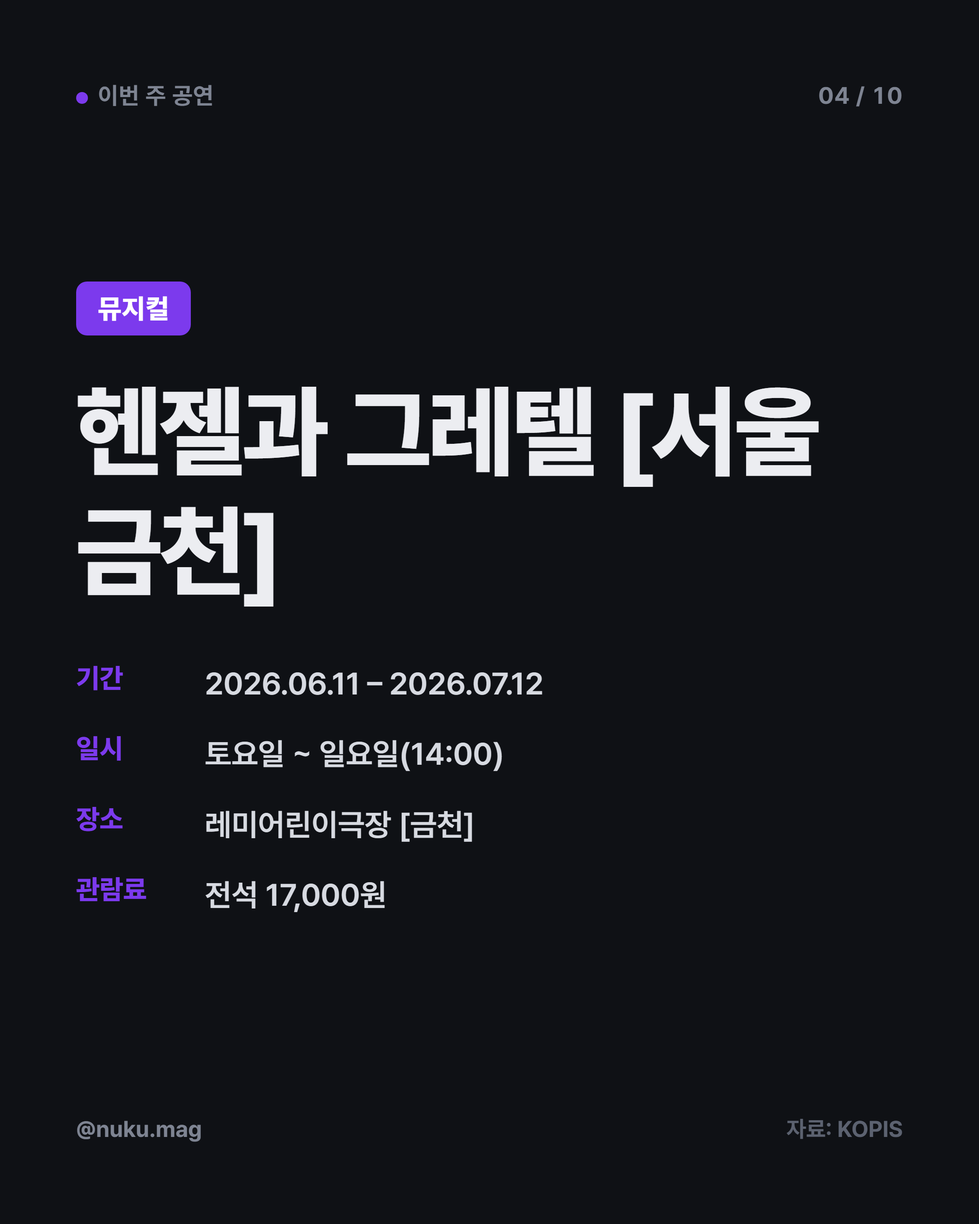
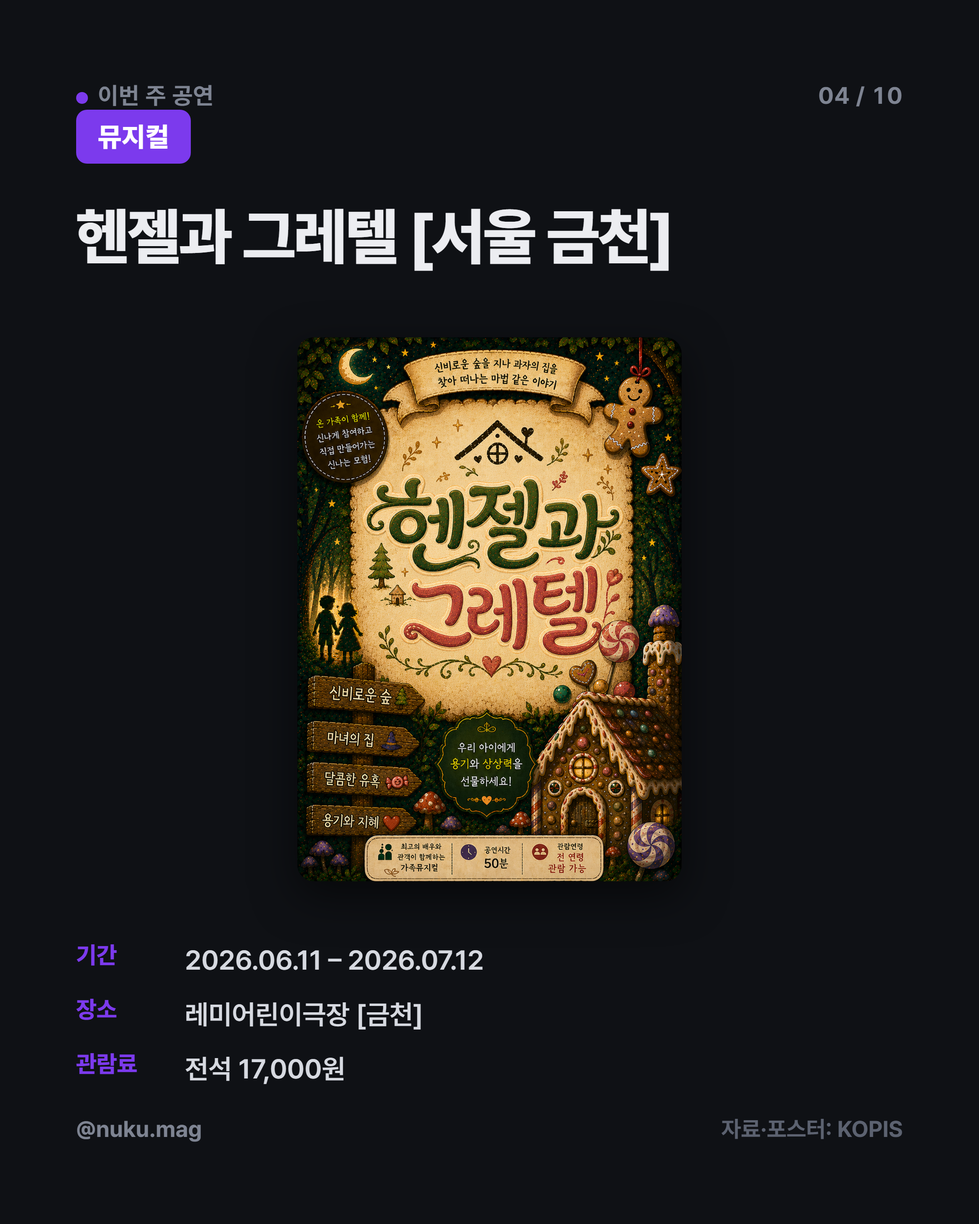
공연소식 6/19~6/25 주간 카드 갱신 (포스터 버전)

diff --git a/17_공연소식/card02.html b/17_공연소식/card02.html
@@ -21,6 +21,13 @@ body{font-family:'Pretendard','Noto Sans KR',sans-serif;background:#0F1115;color
 .bot{margin-top:auto;display:flex;justify-content:space-between;align-items:center;
   font-size:25px;font-weight:700;color:#7E8492;padding-top:30px;}
 .bot .src{color:#5C6270;}
+/* poster layout */
+.posterwrap{flex:1;display:flex;align-items:center;justify-content:center;margin:28px 0 24px;min-height:0;}
+.poster{max-width:100%;max-height:600px;border-radius:18px;object-fit:contain;
+  box-shadow:0 16px 48px rgba(0,0,0,.55);}
+.rows.compact{margin-top:0;gap:18px;}
+.rows.compact .k{font-size:26px;width:96px;}
+.rows.compact .v{font-size:30px;}
 /* cover */
 .cov-k{display:inline-block;align-self:flex-start;font-size:30px;font-weight:800;color:#4AA0FF;
   background:rgba(74,160,255,.12);border-radius:999px;padding:12px 26px;margin-bottom:36px;}
@@ -35,7 +42,7 @@ body{font-family:'Pretendard','Noto Sans KR',sans-serif;background:#0F1115;color
 .cl-handle{font-size:46px;font-weight:800;color:#ECEDF1;margin-top:60px;}
 .cl-handle .dot{width:18px;height:18px;border-radius:50%;background:#0273FF;display:inline-block;margin-right:14px;}
 em{font-style:normal;color:#4AA0FF;}
-</style></head><body><div class="frame" style="--ac:#0273FF"><div class="top"><span><span class="dot"></span>이번 주 공연</span><span class="num">02 / 10</span></div><div class="body"><span class="chip">연극</span><div class="title fit" data-fith="380" data-fitmax="110">주인공 [서울]</div><div class="rows"><div class="row"><div class="k">기간</div><div class="v">2026.06.10 – 2026.06.14</div></div><div class="row"><div class="k">일시</div><div class="v">수요일 ~ 금요일(19:30), 토요일(15:00,19:30), 일요일(14:00)</div></div><div class="row"><div class="k">장소</div><div class="v">다케이씨어터 (구. 창조소극장)</div></div><div class="row"><div class="k">관람료</div><div class="v">전석 30,000원</div></div><div class="row"><div class="k">출연</div><div class="v">남윤성, 이재홍, 김미소, 김수연, 강민경, 손세빈, 김성영 등</div></div></div></div><div class="bot"><span><span class="dot"></span>@nuku.mag</span><span class="src">자료: KOPIS</span></div></div><script>
+</style></head><body><div class="frame" style="--ac:#0273FF"><div class="top"><span><span class="dot"></span>이번 주 공연</span><span class="num">02 / 10</span></div><div class="body"><span class="chip">연극</span><div class="title fit" data-fith="150" data-fitmax="68">연애버킷리스트</div><div class="posterwrap"><img class="poster" src="http://www.kopis.or.kr/upload/pfmPoster/PF_PF293852_260616_140115.gif" alt=""></div><div class="rows compact"><div class="row"><div class="k">기간</div><div class="v">2026.06.18 – 2026.08.31</div></div><div class="row"><div class="k">장소</div><div class="v">봄날아트홀 (구. 아리랑소극장)</div></div><div class="row"><div class="k">관람료</div><div class="v">전석 30,000원</div></div></div></div><div class="bot"><span><span class="dot"></span>@nuku.mag</span><span class="src">자료·포스터: KOPIS</span></div></div><script>
 (function(){function fit(el){var maxH=parseFloat(el.dataset.fith)||430,maxF=parseFloat(el.dataset.fitmax)||118,
 minF=44,lo=minF,hi=maxF,best=minF;for(var i=0;i<26;i++){var mid=(lo+hi)/2;el.style.fontSize=mid+'px';
 if(el.scrollHeight<=maxH+0.5&&el.scrollWidth<=el.clientWidth+1){best=mid;lo=mid;}else{hi=mid;}}

diff --git a/17_공연소식/card07.html b/17_공연소식/card07.html
@@ -21,6 +21,13 @@ body{font-family:'Pretendard','Noto Sans KR',sans-serif;background:#0F1115;color
 .bot{margin-top:auto;display:flex;justify-content:space-between;align-items:center;
   font-size:25px;font-weight:700;color:#7E8492;padding-top:30px;}
 .bot .src{color:#5C6270;}
+/* poster layout */
+.posterwrap{flex:1;display:flex;align-items:center;justify-content:center;margin:28px 0 24px;min-height:0;}
+.poster{max-width:100%;max-height:600px;border-radius:18px;object-fit:contain;
+  box-shadow:0 16px 48px rgba(0,0,0,.55);}
+.rows.compact{margin-top:0;gap:18px;}
+.rows.compact .k{font-size:26px;width:96px;}
+.rows.compact .v{font-size:30px;}
 /* cover */
 .cov-k{display:inline-block;align-self:flex-start;font-size:30px;font-weight:800;color:#4AA0FF;
   background:rgba(74,160,255,.12);border-radius:999px;padding:12px 26px;margin-bottom:36px;}
@@ -35,7 +42,7 @@ body{font-family:'Pretendard','Noto Sans KR',sans-serif;background:#0F1115;color
 .cl-handle{font-size:46px;font-weight:800;color:#ECEDF1;margin-top:60px;}
 .cl-handle .dot{width:18px;height:18px;border-radius:50%;background:#0273FF;display:inline-block;margin-right:14px;}
 em{font-style:normal;color:#4AA0FF;}
-</style></head><body><div class="frame" style="--ac:#0E7490"><div class="top"><span><span class="dot"></span>이번 주 공연</span><span class="num">07 / 10</span></div><div class="body"><span class="chip">서양음악(클래식)</span><div class="title fit" data-fith="380" data-fitmax="110">스며드는 노래, 이어지는 울림</div><div class="rows"><div class="row"><div class="k">기간</div><div class="v">2026.06.12</div></div><div class="row"><div class="k">일시</div><div class="v">금요일(19:30)</div></div><div class="row"><div class="k">장소</div><div class="v">푸르지오아트홀</div></div><div class="row"><div class="k">관람료</div><div class="v">전석 30,000원</div></div><div class="row"><div class="k">출연</div><div class="v">이일령, 이은영, 김주형, 유주영, 정승환, 김대위, 이상화 등</div></div></div></div><div class="bot"><span><span class="dot"></span>@nuku.mag</span><span class="src">자료: KOPIS</span></div></div><script>
+</style></head><body><div class="frame" style="--ac:#0E7490"><div class="top"><span><span class="dot"></span>이번 주 공연</span><span class="num">07 / 10</span></div><div class="body"><span class="chip">서양음악(클래식)</span><div class="title fit" data-fith="150" data-fitmax="68">다시보는 공연봄날, 음악으로 빚은 동화콘서트, 집으로</div><div class="posterwrap"><img class="poster" src="http://www.kopis.or.kr/upload/pfmPoster/PF_PF293397_260611_112056.png" alt=""></div><div class="rows compact"><div class="row"><div class="k">기간</div><div class="v">2026.06.17 – 2026.06.21</div></div><div class="row"><div class="k">장소</div><div class="v">세종문화회관</div></div><div class="row"><div class="k">관람료</div><div class="v">전석무료</div></div></div></div><div class="bot"><span><span class="dot"></span>@nuku.mag</span><span class="src">자료·포스터: KOPIS</span></div></div><script>
 (function(){function fit(el){var maxH=parseFloat(el.dataset.fith)||430,maxF=parseFloat(el.dataset.fitmax)||118,
 minF=44,lo=minF,hi=maxF,best=minF;for(var i=0;i<26;i++){var mid=(lo+hi)/2;el.style.fontSize=mid+'px';
 if(el.scrollHeight<=maxH+0.5&&el.scrollWidth<=el.clientWidth+1){best=mid;lo=mid;}else{hi=mid;}}

diff --git a/17_공연소식/card06.html b/17_공연소식/card06.html
@@ -21,6 +21,13 @@ body{font-family:'Pretendard','Noto Sans KR',sans-serif;background:#0F1115;color
 .bot{margin-top:auto;display:flex;justify-content:space-between;align-items:center;
   font-size:25px;font-weight:700;color:#7E8492;padding-top:30px;}
 .bot .src{color:#5C6270;}
+/* poster layout */
+.posterwrap{flex:1;display:flex;align-items:center;justify-content:center;margin:28px 0 24px;min-height:0;}
+.poster{max-width:100%;max-height:600px;border-radius:18px;object-fit:contain;
+  box-shadow:0 16px 48px rgba(0,0,0,.55);}
+.rows.compact{margin-top:0;gap:18px;}
+.rows.compact .k{font-size:26px;width:96px;}
+.rows.compact .v{font-size:30px;}
 /* cover */
 .cov-k{display:inline-block;align-self:flex-start;font-size:30px;font-weight:800;color:#4AA0FF;
   background:rgba(74,160,255,.12);border-radius:999px;padding:12px 26px;margin-bottom:36px;}
@@ -35,7 +42,7 @@ body{font-family:'Pretendard','Noto Sans KR',sans-serif;background:#0F1115;color
 .cl-handle{font-size:46px;font-weight:800;color:#ECEDF1;margin-top:60px;}
 .cl-handle .dot{width:18px;height:18px;border-radius:50%;background:#0273FF;display:inline-block;margin-right:14px;}
 em{font-style:normal;color:#4AA0FF;}
-</style></head><body><div class="frame" style="--ac:#0E7490"><div class="top"><span><span class="dot"></span>이번 주 공연</span><span class="num">06 / 10</span></div><div class="body"><span class="chip">서양음악(클래식)</span><div class="title fit" data-fith="380" data-fitmax="110">코리아 플루트 솔로이스츠</div><div class="rows"><div class="row"><div class="k">기간</div><div class="v">2026.06.12</div></div><div class="row"><div class="k">일시</div><div class="v">금요일(19:30)</div></div><div class="row"><div class="k">장소</div><div class="v">반포심산아트홀</div></div><div class="row"><div class="k">관람료</div><div class="v">전석 20,000원</div></div><div class="row"><div class="k">출연</div><div class="v">김석중, 조훈희, 조한, 장현진, 박소영, 한지수, 권예나 등</div></div></div></div><div class="bot"><span><span class="dot"></span>@nuku.mag</span><span class="src">자료: KOPIS</span></div></div><script>
+</style></head><body><div class="frame" style="--ac:#0E7490"><div class="top"><span><span class="dot"></span>이번 주 공연</span><span class="num">06 / 10</span></div><div class="body"><span class="chip">서양음악(클래식)</span><div class="title fit" data-fith="150" data-fitmax="68">홍진호의 Way Back Home 첼로 리사이틀</div><div class="posterwrap"><img class="poster" src="http://www.kopis.or.kr/upload/pfmPoster/PF_PF293447_260611_135833.png" alt=""></div><div class="rows compact"><div class="row"><div class="k">기간</div><div class="v">2026.06.17 – 2026.08.12</div></div><div class="row"><div class="k">장소</div><div class="v">평창동일번지 아트하우스</div></div><div class="row"><div class="k">관람료</div><div class="v">전석 100,000원</div></div></div></div><div class="bot"><span><span class="dot"></span>@nuku.mag</span><span class="src">자료·포스터: KOPIS</span></div></div><script>
 (function(){function fit(el){var maxH=parseFloat(el.dataset.fith)||430,maxF=parseFloat(el.dataset.fitmax)||118,
 minF=44,lo=minF,hi=maxF,best=minF;for(var i=0;i<26;i++){var mid=(lo+hi)/2;el.style.fontSize=mid+'px';
 if(el.scrollHeight<=maxH+0.5&&el.scrollWidth<=el.clientWidth+1){best=mid;lo=mid;}else{hi=mid;}}

diff --git a/17_공연소식/card03.html b/17_공연소식/card03.html
@@ -21,6 +21,13 @@ body{font-family:'Pretendard','Noto Sans KR',sans-serif;background:#0F1115;color
 .bot{margin-top:auto;display:flex;justify-content:space-between;align-items:center;
   font-size:25px;font-weight:700;color:#7E8492;padding-top:30px;}
 .bot .src{color:#5C6270;}
+/* poster layout */
+.posterwrap{flex:1;display:flex;align-items:center;justify-content:center;margin:28px 0 24px;min-height:0;}
+.poster{max-width:100%;max-height:600px;border-radius:18px;object-fit:contain;
+  box-shadow:0 16px 48px rgba(0,0,0,.55);}
+.rows.compact{margin-top:0;gap:18px;}
+.rows.compact .k{font-size:26px;width:96px;}
+.rows.compact .v{font-size:30px;}
 /* cover */
 .cov-k{display:inline-block;align-self:flex-start;font-size:30px;font-weight:800;color:#4AA0FF;
   background:rgba(74,160,255,.12);border-radius:999px;padding:12px 26px;margin-bottom:36px;}
@@ -35,7 +42,7 @@ body{font-family:'Pretendard','Noto Sans KR',sans-serif;background:#0F1115;color
 .cl-handle{font-size:46px;font-weight:800;color:#ECEDF1;margin-top:60px;}
 .cl-handle .dot{width:18px;height:18px;border-radius:50%;background:#0273FF;display:inline-block;margin-right:14px;}
 em{font-style:normal;color:#4AA0FF;}
-</style></head><body><div class="frame" style="--ac:#0273FF"><div class="top"><span><span class="dot"></span>이번 주 공연</span><span class="num">03 / 10</span></div><div class="body"><span class="chip">연극</span><div class="title fit" data-fith="380" data-fitmax="110">제34회 젊은 연극제, 금전겁</div><div class="rows"><div class="row"><div class="k">기간</div><div class="v">2026.06.12 – 2026.06.13</div></div><div class="row"><div class="k">일시</div><div class="v">금요일(19:00), 토요일(15:00)</div></div><div class="row"><div class="k">장소</div><div class="v">보라 아트홀(구. 지구인아트홀)</div></div><div class="row"><div class="k">관람료</div><div class="v">전석무료</div></div><div class="row"><div class="k">출연</div><div class="v">서수문, 유수이, 오택명, 당진뢰, 여결, 방룡비, 두비</div></div></div></div><div class="bot"><span><span class="dot"></span>@nuku.mag</span><span class="src">자료: KOPIS</span></div></div><script>
+</style></head><body><div class="frame" style="--ac:#0273FF"><div class="top"><span><span class="dot"></span>이번 주 공연</span><span class="num">03 / 10</span></div><div class="body"><span class="chip">연극</span><div class="title fit" data-fith="150" data-fitmax="68">형, 이거 나만 불편해?</div><div class="posterwrap"><img class="poster" src="http://www.kopis.or.kr/upload/pfmPoster/PF_PF293367_260611_102937.gif" alt=""></div><div class="rows compact"><div class="row"><div class="k">기간</div><div class="v">2026.06.17 – 2026.06.21</div></div><div class="row"><div class="k">장소</div><div class="v">소극장 혜화당 (구. 까망소극장)</div></div><div class="row"><div class="k">관람료</div><div class="v">전석 30,000원</div></div></div></div><div class="bot"><span><span class="dot"></span>@nuku.mag</span><span class="src">자료·포스터: KOPIS</span></div></div><script>
 (function(){function fit(el){var maxH=parseFloat(el.dataset.fith)||430,maxF=parseFloat(el.dataset.fitmax)||118,
 minF=44,lo=minF,hi=maxF,best=minF;for(var i=0;i<26;i++){var mid=(lo+hi)/2;el.style.fontSize=mid+'px';
 if(el.scrollHeight<=maxH+0.5&&el.scrollWidth<=el.clientWidth+1){best=mid;lo=mid;}else{hi=mid;}}

diff --git a/17_공연소식/card05.html b/17_공연소식/card05.html
@@ -21,6 +21,13 @@ body{font-family:'Pretendard','Noto Sans KR',sans-serif;background:#0F1115;color
 .bot{margin-top:auto;display:flex;justify-content:space-between;align-items:center;
   font-size:25px;font-weight:700;color:#7E8492;padding-top:30px;}
 .bot .src{color:#5C6270;}
+/* poster layout */
+.posterwrap{flex:1;display:flex;align-items:center;justify-content:center;margin:28px 0 24px;min-height:0;}
+.poster{max-width:100%;max-height:600px;border-radius:18px;object-fit:contain;
+  box-shadow:0 16px 48px rgba(0,0,0,.55);}
+.rows.compact{margin-top:0;gap:18px;}
+.rows.compact .k{font-size:26px;width:96px;}
+.rows.compact .v{font-size:30px;}
 /* cover */
 .cov-k{display:inline-block;align-self:flex-start;font-size:30px;font-weight:800;color:#4AA0FF;
   background:rgba(74,160,255,.12);border-radius:999px;padding:12px 26px;margin-bottom:36px;}
@@ -35,7 +42,7 @@ body{font-family:'Pretendard','Noto Sans KR',sans-serif;background:#0F1115;color
 .cl-handle{font-size:46px;font-weight:800;color:#ECEDF1;margin-top:60px;}
 .cl-handle .dot{width:18px;height:18px;border-radius:50%;background:#0273FF;display:inline-block;margin-right:14px;}
 em{font-style:normal;color:#4AA0FF;}
-</style></head><body><div class="frame" style="--ac:#7C3AED"><div class="top"><span><span class="dot"></span>이번 주 공연</span><span class="num">05 / 10</span></div><div class="body"><span class="chip">뮤지컬</span><div class="title fit" data-fith="380" data-fitmax="110">SHELTER 쉘터</div><div class="rows"><div class="row"><div class="k">기간</div><div class="v">2026.06.12 – 2026.06.14</div></div><div class="row"><div class="k">일시</div><div class="v">금요일(19:30), 토요일(14:00,18:00), 일요일(15:00)</div></div><div class="row"><div class="k">장소</div><div class="v">한국콘텐츠진흥원 CKL스테이지</div></div><div class="row"><div class="k">관람료</div><div class="v">전석 35,000원</div></div><div class="row"><div class="k">출연</div><div class="v">김봄나리, 박동균, 박연지, 백두진, 송희, 이승연, 최홍혁 등</div></div></div></div><div class="bot"><span><span class="dot"></span>@nuku.mag</span><span class="src">자료: KOPIS</span></div></div><script>
+</style></head><body><div class="frame" style="--ac:#7C3AED"><div class="top"><span><span class="dot"></span>이번 주 공연</span><span class="num">05 / 10</span></div><div class="body"><span class="chip">뮤지컬</span><div class="title fit" data-fith="150" data-fitmax="68">독도 아리랑 [대학로]</div><div class="posterwrap"><img class="poster" src="http://www.kopis.or.kr/upload/pfmPoster/PF_PF291560_260518_100936.jpg" alt=""></div><div class="rows compact"><div class="row"><div class="k">기간</div><div class="v">2026.06.03 – 2026.06.28</div></div><div class="row"><div class="k">장소</div><div class="v">경복궁아트홀</div></div><div class="row"><div class="k">관람료</div><div class="v">전석 30,000원</div></div></div></div><div class="bot"><span><span class="dot"></span>@nuku.mag</span><span class="src">자료·포스터: KOPIS</span></div></div><script>
 (function(){function fit(el){var maxH=parseFloat(el.dataset.fith)||430,maxF=parseFloat(el.dataset.fitmax)||118,
 minF=44,lo=minF,hi=maxF,best=minF;for(var i=0;i<26;i++){var mid=(lo+hi)/2;el.style.fontSize=mid+'px';
 if(el.scrollHeight<=maxH+0.5&&el.scrollWidth<=el.clientWidth+1){best=mid;lo=mid;}else{hi=mid;}}

diff --git a/17_공연소식/card09.html b/17_공연소식/card09.html
@@ -21,6 +21,13 @@ body{font-family:'Pretendard','Noto Sans KR',sans-serif;background:#0F1115;color
 .bot{margin-top:auto;display:flex;justify-content:space-between;align-items:center;
   font-size:25px;font-weight:700;color:#7E8492;padding-top:30px;}
 .bot .src{color:#5C6270;}
+/* poster layout */
+.posterwrap{flex:1;display:flex;align-items:center;justify-content:center;margin:28px 0 24px;min-height:0;}
+.poster{max-width:100%;max-height:600px;border-radius:18px;object-fit:contain;
+  box-shadow:0 16px 48px rgba(0,0,0,.55);}
+.rows.compact{margin-top:0;gap:18px;}
+.rows.compact .k{font-size:26px;width:96px;}
+.rows.compact .v{font-size:30px;}
 /* cover */
 .cov-k{display:inline-block;align-self:flex-start;font-size:30px;font-weight:800;color:#4AA0FF;
   background:rgba(74,160,255,.12);border-radius:999px;padding:12px 26px;margin-bottom:36px;}
@@ -35,7 +42,7 @@ body{font-family:'Pretendard','Noto Sans KR',sans-serif;background:#0F1115;color
 .cl-handle{font-size:46px;font-weight:800;color:#ECEDF1;margin-top:60px;}
 .cl-handle .dot{width:18px;height:18px;border-radius:50%;background:#0273FF;display:inline-block;margin-right:14px;}
 em{font-style:normal;color:#4AA0FF;}
-</style></head><body><div class="frame" style="--ac:#E11D48"><div class="top"><span><span class="dot"></span>이번 주 공연</span><span class="num">09 / 10</span></div><div class="body"><span class="chip">대중음악</span><div class="title fit" data-fith="380" data-fitmax="110">수상한스테이지 (06.12)</div><div class="rows"><div class="row"><div class="k">기간</div><div class="v">2026.06.12</div></div><div class="row"><div class="k">일시</div><div class="v">금요일(20:00)</div></div><div class="row"><div class="k">장소</div><div class="v">수상한창고</div></div><div class="row"><div class="k">관람료</div><div class="v">전석 16,000원</div></div><div class="row"><div class="k">출연</div><div class="v">도이주 등</div></div></div></div><div class="bot"><span><span class="dot"></span>@nuku.mag</span><span class="src">자료: KOPIS</span></div></div><script>
+</style></head><body><div class="frame" style="--ac:#E11D48"><div class="top"><span><span class="dot"></span>이번 주 공연</span><span class="num">09 / 10</span></div><div class="body"><span class="chip">대중음악</span><div class="title fit" data-fith="150" data-fitmax="68">맨덜리 익스피리언스 (The Manderley Experience)</div><div class="posterwrap"><img class="poster" src="http://www.kopis.or.kr/upload/pfmPoster/PF_PF292649_260601_134101.jpg" alt=""></div><div class="rows compact"><div class="row"><div class="k">기간</div><div class="v">2026.06.04 – 2026.06.26</div></div><div class="row"><div class="k">장소</div><div class="v">매키탄 호텔</div></div><div class="row"><div class="k">관람료</div><div class="v">전석 50,000원</div></div></div></div><div class="bot"><span><span class="dot"></span>@nuku.mag</span><span class="src">자료·포스터: KOPIS</span></div></div><script>
 (function(){function fit(el){var maxH=parseFloat(el.dataset.fith)||430,maxF=parseFloat(el.dataset.fitmax)||118,
 minF=44,lo=minF,hi=maxF,best=minF;for(var i=0;i<26;i++){var mid=(lo+hi)/2;el.style.fontSize=mid+'px';
 if(el.scrollHeight<=maxH+0.5&&el.scrollWidth<=el.clientWidth+1){best=mid;lo=mid;}else{hi=mid;}}

diff --git a/17_공연소식/card08.html b/17_공연소식/card08.html
@@ -21,6 +21,13 @@ body{font-family:'Pretendard','Noto Sans KR',sans-serif;background:#0F1115;color
 .bot{margin-top:auto;display:flex;justify-content:space-between;align-items:center;
   font-size:25px;font-weight:700;color:#7E8492;padding-top:30px;}
 .bot .src{color:#5C6270;}
+/* poster layout */
+.posterwrap{flex:1;display:flex;align-items:center;justify-content:center;margin:28px 0 24px;min-height:0;}
+.poster{max-width:100%;max-height:600px;border-radius:18px;object-fit:contain;
+  box-shadow:0 16px 48px rgba(0,0,0,.55);}
+.rows.compact{margin-top:0;gap:18px;}
+.rows.compact .k{font-size:26px;width:96px;}
+.rows.compact .v{font-size:30px;}
 /* cover */
 .cov-k{display:inline-block;align-self:flex-start;font-size:30px;font-weight:800;color:#4AA0FF;
   background:rgba(74,160,255,.12);border-radius:999px;padding:12px 26px;margin-bottom:36px;}
@@ -35,7 +42,7 @@ body{font-family:'Pretendard','Noto Sans KR',sans-serif;background:#0F1115;color
 .cl-handle{font-size:46px;font-weight:800;color:#ECEDF1;margin-top:60px;}
 .cl-handle .dot{width:18px;height:18px;border-radius:50%;background:#0273FF;display:inline-block;margin-right:14px;}
 em{font-style:normal;color:#4AA0FF;}
-</style></head><body><div class="frame" style="--ac:#E11D48"><div class="top"><span><span class="dot"></span>이번 주 공연</span><span class="num">08 / 10</span></div><div class="body"><span class="chip">대중음악</span><div class="title fit" data-fith="380" data-fitmax="110">Lion Presents: Trancision, Ferry Corsten</div><div class="rows"><div class="row"><div class="k">기간</div><div class="v">2026.06.12 – 2026.06.13</div></div><div class="row"><div class="k">일시</div><div class="v">금요일(23:00)</div></div><div class="row"><div class="k">장소</div><div class="v">라이언슈퍼클럽(LION SUPER CLUB)</div></div><div class="row"><div class="k">관람료</div><div class="v">전석 30,000원</div></div></div></div><div class="bot"><span><span class="dot"></span>@nuku.mag</span><span class="src">자료: KOPIS</span></div></div><script>
+</style></head><body><div class="frame" style="--ac:#E11D48"><div class="top"><span><span class="dot"></span>이번 주 공연</span><span class="num">08 / 10</span></div><div class="body"><span class="chip">대중음악</span><div class="title fit" data-fith="150" data-fitmax="68">ANTARES: JUNE</div><div class="posterwrap"><img class="poster" src="http://www.kopis.or.kr/upload/pfmPoster/PF_PF292993_260608_104502.gif" alt=""></div><div class="rows compact"><div class="row"><div class="k">기간</div><div class="v">2026.06.13 – 2026.06.28</div></div><div class="row"><div class="k">장소</div><div class="v">K-POP STAGE (구. 윤형빈소극장 [홍대] )</div></div><div class="row"><div class="k">관람료</div><div class="v">전석 20,000원</div></div></div></div><div class="bot"><span><span class="dot"></span>@nuku.mag</span><span class="src">자료·포스터: KOPIS</span></div></div><script>
 (function(){function fit(el){var maxH=parseFloat(el.dataset.fith)||430,maxF=parseFloat(el.dataset.fitmax)||118,
 minF=44,lo=minF,hi=maxF,best=minF;for(var i=0;i<26;i++){var mid=(lo+hi)/2;el.style.fontSize=mid+'px';
 if(el.scrollHeight<=maxH+0.5&&el.scrollWidth<=el.clientWidth+1){best=mid;lo=mid;}else{hi=mid;}}

diff --git a/17_공연소식/card04.html b/17_공연소식/card04.html
@@ -21,6 +21,13 @@ body{font-family:'Pretendard','Noto Sans KR',sans-serif;background:#0F1115;color
 .bot{margin-top:auto;display:flex;justify-content:space-between;align-items:center;
   font-size:25px;font-weight:700;color:#7E8492;padding-top:30px;}
 .bot .src{color:#5C6270;}
+/* poster layout */
+.posterwrap{flex:1;display:flex;align-items:center;justify-content:center;margin:28px 0 24px;min-height:0;}
+.poster{max-width:100%;max-height:600px;border-radius:18px;object-fit:contain;
+  box-shadow:0 16px 48px rgba(0,0,0,.55);}
+.rows.compact{margin-top:0;gap:18px;}
+.rows.compact .k{font-size:26px;width:96px;}
+.rows.compact .v{font-size:30px;}
 /* cover */
 .cov-k{display:inline-block;align-self:flex-start;font-size:30px;font-weight:800;color:#4AA0FF;
   background:rgba(74,160,255,.12);border-radius:999px;padding:12px 26px;margin-bottom:36px;}
@@ -35,7 +42,7 @@ body{font-family:'Pretendard','Noto Sans KR',sans-serif;background:#0F1115;color
 .cl-handle{font-size:46px;font-weight:800;color:#ECEDF1;margin-top:60px;}
 .cl-handle .dot{width:18px;height:18px;border-radius:50%;background:#0273FF;display:inline-block;margin-right:14px;}
 em{font-style:normal;color:#4AA0FF;}
-</style></head><body><div class="frame" style="--ac:#7C3AED"><div class="top"><span><span class="dot"></span>이번 주 공연</span><span class="num">04 / 10</span></div><div class="body"><span class="chip">뮤지컬</span><div class="title fit" data-fith="380" data-fitmax="110">헨젤과 그레텔 [서울 금천]</div><div class="rows"><div class="row"><div class="k">기간</div><div class="v">2026.06.11 – 2026.07.12</div></div><div class="row"><div class="k">일시</div><div class="v">토요일 ~ 일요일(14:00)</div></div><div class="row"><div class="k">장소</div><div class="v">레미어린이극장 [금천]</div></div><div class="row"><div class="k">관람료</div><div class="v">전석 17,000원</div></div></div></div><div class="bot"><span><span class="dot"></span>@nuku.mag</span><span class="src">자료: KOPIS</span></div></div><script>
+</style></head><body><div class="frame" style="--ac:#7C3AED"><div class="top"><span><span class="dot"></span>이번 주 공연</span><span class="num">04 / 10</span></div><div class="body"><span class="chip">뮤지컬</span><div class="title fit" data-fith="150" data-fitmax="68">헨젤과 그레텔 [서울 금천]</div><div class="posterwrap"><img class="poster" src="http://www.kopis.or.kr/upload/pfmPoster/PF_PF293174_260609_095900.png" alt=""></div><div class="rows compact"><div class="row"><div class="k">기간</div><div class="v">2026.06.11 – 2026.07.12</div></div><div class="row"><div class="k">장소</div><div class="v">레미어린이극장 [금천]</div></div><div class="row"><div class="k">관람료</div><div class="v">전석 17,000원</div></div></div></div><div class="bot"><span><span class="dot"></span>@nuku.mag</span><span class="src">자료·포스터: KOPIS</span></div></div><script>
 (function(){function fit(el){var maxH=parseFloat(el.dataset.fith)||430,maxF=parseFloat(el.dataset.fitmax)||118,
 minF=44,lo=minF,hi=maxF,best=minF;for(var i=0;i<26;i++){var mid=(lo+hi)/2;el.style.fontSize=mid+'px';
 if(el.scrollHeight<=maxH+0.5&&el.scrollWidth<=el.clientWidth+1){best=mid;lo=mid;}else{hi=mid;}}

diff --git a/17_공연소식/card10.html b/17_공연소식/card10.html
@@ -21,6 +21,13 @@ body{font-family:'Pretendard','Noto Sans KR',sans-serif;background:#0F1115;color
 .bot{margin-top:auto;display:flex;justify-content:space-between;align-items:center;
   font-size:25px;font-weight:700;color:#7E8492;padding-top:30px;}
 .bot .src{color:#5C6270;}
+/* poster layout */
+.posterwrap{flex:1;display:flex;align-items:center;justify-content:center;margin:28px 0 24px;min-height:0;}
+.poster{max-width:100%;max-height:600px;border-radius:18px;object-fit:contain;
+  box-shadow:0 16px 48px rgba(0,0,0,.55);}
+.rows.compact{margin-top:0;gap:18px;}
+.rows.compact .k{font-size:26px;width:96px;}
+.rows.compact .v{font-size:30px;}
 /* cover */
 .cov-k{display:inline-block;align-self:flex-start;font-size:30px;font-weight:800;color:#4AA0FF;
   background:rgba(74,160,255,.12);border-radius:999px;padding:12px 26px;margin-bottom:36px;}
@@ -35,7 +42,7 @@ body{font-family:'Pretendard','Noto Sans KR',sans-serif;background:#0F1115;color
 .cl-handle{font-size:46px;font-weight:800;color:#ECEDF1;margin-top:60px;}
 .cl-handle .dot{width:18px;height:18px;border-radius:50%;background:#0273FF;display:inline-block;margin-right:14px;}
 em{font-style:normal;color:#4AA0FF;}
-</style></head><body><div class="frame" style="--ac:#0273FF"><div class="top"><span><span class="dot"></span>NUKU</span><span class="num">10 / 10</span></div><div class="body"><div class="cl-h">마음에 드는 공연,<br><em>저장</em>해두세요</div><div class="cl-sub">매주 이맘때 서울·수도권 공연 소식을<br>모아서 전해드려요.</div><div class="cl-handle"><span class="dot"></span>@nuku.mag</div></div><div class="bot"><span class="src">자료: KOPIS(공연예술통합전산망)</span><span></span></div></div><script>
+</style></head><body><div class="frame" style="--ac:#0273FF"><div class="top"><span><span class="dot"></span>NUKU</span><span class="num">10 / 10</span></div><div class="body"><div class="cl-h">마음에 드는 공연,<br><em>저장</em>해두세요</div><div class="cl-sub">매주 금요일, 서울·수도권 공연 소식을<br>모아서 전해드려요.</div><div class="cl-handle"><span class="dot"></span>@nuku.mag</div><div style="font-size:22px;color:#5C6270;line-height:1.5;margin-top:48px;font-weight:600;">정보·포스터 ⓒ 각 공연 제작사 · 자료 KOPIS(공연예술통합전산망)<br>공연 홍보·소식 목적으로 사용했으며, 권리자 요청 시 삭제합니다.</div></div><div class="bot"><span class="src">자료·포스터: KOPIS / 각 제작사</span><span></span></div></div><script>
 (function(){function fit(el){var maxH=parseFloat(el.dataset.fith)||430,maxF=parseFloat(el.dataset.fitmax)||118,
 minF=44,lo=minF,hi=maxF,best=minF;for(var i=0;i<26;i++){var mid=(lo+hi)/2;el.style.fontSize=mid+'px';
 if(el.scrollHeight<=maxH+0.5&&el.scrollWidth<=el.clientWidth+1){best=mid;lo=mid;}else{hi=mid;}}

diff --git a/17_공연소식/card01.html b/17_공연소식/card01.html
@@ -21,6 +21,13 @@ body{font-family:'Pretendard','Noto Sans KR',sans-serif;background:#0F1115;color
 .bot{margin-top:auto;display:flex;justify-content:space-between;align-items:center;
   font-size:25px;font-weight:700;color:#7E8492;padding-top:30px;}
 .bot .src{color:#5C6270;}
+/* poster layout */
+.posterwrap{flex:1;display:flex;align-items:center;justify-content:center;margin:28px 0 24px;min-height:0;}
+.poster{max-width:100%;max-height:600px;border-radius:18px;object-fit:contain;
+  box-shadow:0 16px 48px rgba(0,0,0,.55);}
+.rows.compact{margin-top:0;gap:18px;}
+.rows.compact .k{font-size:26px;width:96px;}
+.rows.compact .v{font-size:30px;}
 /* cover */
 .cov-k{display:inline-block;align-self:flex-start;font-size:30px;font-weight:800;color:#4AA0FF;
   background:rgba(74,160,255,.12);border-radius:999px;padding:12px 26px;margin-bottom:36px;}
@@ -35,7 +42,7 @@ body{font-family:'Pretendard','Noto Sans KR',sans-serif;background:#0F1115;color
 .cl-handle{font-size:46px;font-weight:800;color:#ECEDF1;margin-top:60px;}
 .cl-handle .dot{width:18px;height:18px;border-radius:50%;background:#0273FF;display:inline-block;margin-right:14px;}
 em{font-style:normal;color:#4AA0FF;}
-</style></head><body><div class="frame cover" style="--ac:#0273FF"><div class="top"><span><span class="dot"></span>NUKU</span><span class="num">01 / 10</span></div><div class="body"><span class="cov-k">서울·수도권 · 공연 소식</span><div class="cov-h">이번 주<br><em>볼 만한 공연</em></div><div class="cov-sub">6/12 – 6/18 · 6월</div><div class="cov-meta"><span>총 8편</span><span>전 장르</span><span>저장해두기 👇</span></div></div><div class="bot"><span><span class="dot"></span>@nuku.mag</span><span class="src">자료: KOPIS</span></div></div><script>
+</style></head><body><div class="frame cover" style="--ac:#0273FF"><div class="top"><span><span class="dot"></span>NUKU</span><span class="num">01 / 10</span></div><div class="body"><span class="cov-k">서울·수도권 · 공연 소식</span><div class="cov-h">이번 주<br><em>볼 만한 공연</em></div><div class="cov-sub">6/19 – 6/25 · 6월</div><div class="cov-meta"><span>총 8편</span><span>전 장르</span><span>저장해두기 👇</span></div></div><div class="bot"><span><span class="dot"></span>@nuku.mag</span><span class="src">자료: KOPIS</span></div></div><script>
 (function(){function fit(el){var maxH=parseFloat(el.dataset.fith)||430,maxF=parseFloat(el.dataset.fitmax)||118,
 minF=44,lo=minF,hi=maxF,best=minF;for(var i=0;i<26;i++){var mid=(lo+hi)/2;el.style.fontSize=mid+'px';
 if(el.scrollHeight<=maxH+0.5&&el.scrollWidth<=el.clientWidth+1){best=mid;lo=mid;}else{hi=mid;}}
